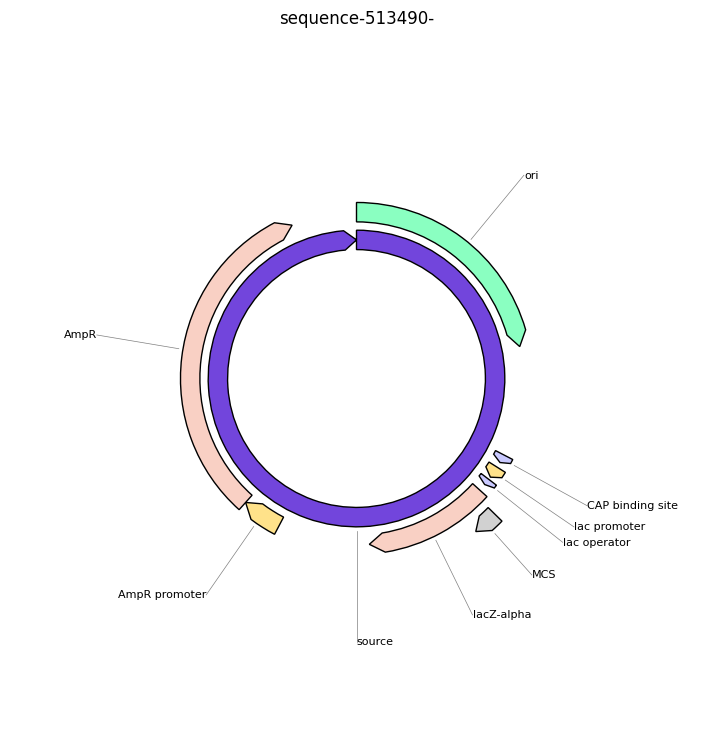
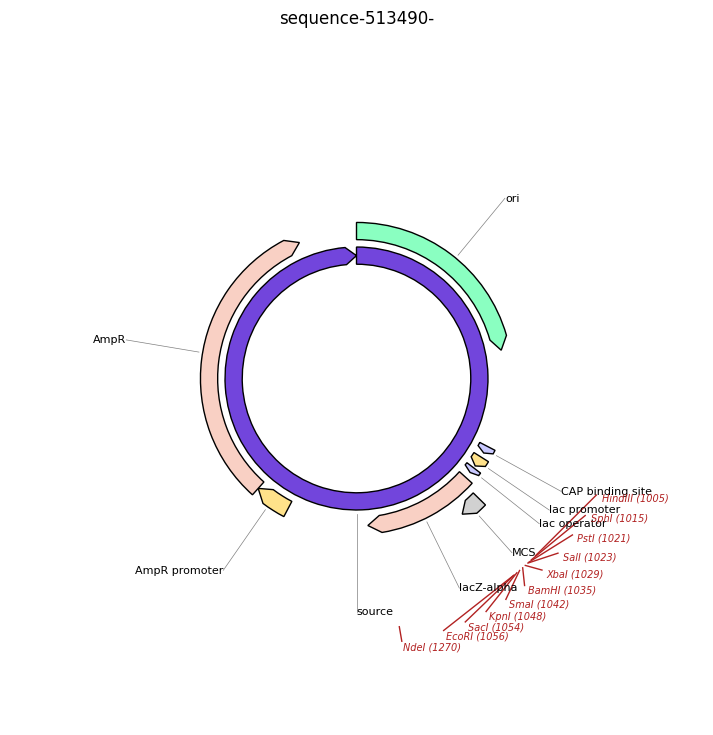
Add restriction site detection (Stage 2)
New restriction_sites.find_unique_cutters() uses Bio.Restriction to find
enzymes from a curated common-cloning-enzyme list that cut the plasmid
exactly once - the ones actually useful for linearizing it or cutting
out an insert. parse_plasmid.py lists them; plot_plasmid.py draws them
as tick marks in their own outer ring, with a declutter step that groups
and evenly spreads tightly clustered labels (e.g. inside an MCS) so they
stay legible instead of overlapping.

diff --git a/plot_plasmid.py b/plot_plasmid.py
@@ -16,9 +16,14 @@ from dna_features_viewer import BiopythonTranslator, CircularGraphicRecord
 from dna_features_viewer.compute_features_levels import compute_features_levels
 
 from plasmid_io import load_record
+from restriction_sites import find_unique_cutters
 
 DEFAULT_FILE = "addgene-plasmid-50005-sequence-513490.gbk"
 DEFAULT_OUTPUT_IMAGE = "plasmid_map.png"
+
+RESTRICTION_SITE_COLOR = "firebrick"
+RESTRICTION_RING_GAP = 0.15  # radius gap between the feature labels and the restriction ring
+RESTRICTION_TICK_LENGTH = 0.12
 
 # Primer binding sites are numerous and mostly useful for cloning/sequencing
 # work, not for getting an overview of the plasmid, so we hide them here.
@@ -87,6 +92,83 @@ def draw_clock_style_labels(ax, graphic_record, levels):
     return label_radius
 
 
+MIN_LABEL_ANGLE_GAP = 5  # degrees; keeps tightly clustered cut sites (e.g. an MCS) legible
+
+
+def declutter_label_angles(angles_deg, min_gap_deg):
+    """Group tightly clustered angles and spread each group evenly around
+    its own true center, so a busy region (like an MCS) fans out without
+    dragging unrelated, well-separated labels along with it.
+
+    `angles_deg` must be sorted highest to lowest, as they are when cut
+    sites are sorted by ascending sequence position. Only the label
+    position moves; the tick mark stays at the feature's true angle,
+    connected by a slightly bent leader line.
+    """
+    n = len(angles_deg)
+    if n == 0:
+        return []
+
+    clusters = [[0]]
+    for i in range(1, n):
+        if angles_deg[i - 1] - angles_deg[i] < min_gap_deg:
+            clusters[-1].append(i)
+        else:
+            clusters.append([i])
+
+    adjusted = [None] * n
+    for cluster in clusters:
+        center = sum(angles_deg[i] for i in cluster) / len(cluster)
+        k = len(cluster)
+        for j, idx in enumerate(cluster):
+            adjusted[idx] = center + min_gap_deg * ((k - 1) / 2 - j)
+    return adjusted
+
+
+def draw_restriction_sites(ax, graphic_record, cut_sites, inner_radius):
+    """Draw a short tick mark and label for each unique restriction cut
+    site, in its own ring beyond `inner_radius` so cut sites read as
+    visually distinct from genetic features."""
+    tick_outer_r = inner_radius + RESTRICTION_TICK_LENGTH
+    label_r = tick_outer_r + 0.05
+
+    # cut_sites is sorted by ascending position, which corresponds to
+    # descending angle - exactly the order declutter_label_angles expects.
+    tick_angles = [graphic_record.position_to_angle(position) for _, position in cut_sites]
+    label_angles = declutter_label_angles(tick_angles, MIN_LABEL_ANGLE_GAP)
+
+    for (enzyme_name, position), tick_angle_deg, label_angle_deg in zip(
+        cut_sites, tick_angles, label_angles
+    ):
+        tick_rad = math.radians(tick_angle_deg)
+        x0 = inner_radius * math.cos(tick_rad)
+        y0 = inner_radius * math.sin(tick_rad) - graphic_record.radius
+
+        label_rad = math.radians(label_angle_deg)
+        x1 = tick_outer_r * math.cos(label_rad)
+        y1 = tick_outer_r * math.sin(label_rad) - graphic_record.radius
+        ax.plot(
+            [x0, x1], [y0, y1],
+            color=RESTRICTION_SITE_COLOR, linewidth=1, zorder=1, clip_on=False,
+        )
+
+        tx = label_r * math.cos(label_rad)
+        ty = label_r * math.sin(label_rad) - graphic_record.radius
+        ha = "left" if tx >= 0 else "right"
+        ax.text(
+            tx, ty,
+            f"{enzyme_name} ({position})",
+            ha=ha,
+            va="center",
+            fontsize=7,
+            style="italic",
+            color=RESTRICTION_SITE_COLOR,
+            clip_on=False,
+        )
+
+    return label_r
+
+
 def parse_args():
     parser = argparse.ArgumentParser(description=__doc__)
     parser.add_argument(
@@ -125,7 +207,12 @@ def main():
 
     label_radius = draw_clock_style_labels(ax, graphic_record, levels)
 
-    half_span = label_radius + 0.6
+    cut_sites = find_unique_cutters(record.seq)
+    restriction_radius = draw_restriction_sites(
+        ax, graphic_record, cut_sites, inner_radius=label_radius + RESTRICTION_RING_GAP
+    )
+
+    half_span = restriction_radius + 0.6
     ax.set_xlim(-half_span, half_span)
     ax.set_ylim(-graphic_record.radius - half_span, -graphic_record.radius + half_span)
 

diff --git a/restriction_sites.py b/restriction_sites.py
@@ -1,0 +1,39 @@
+"""
+Find restriction enzyme cut sites in a plasmid sequence using Bio.Restriction.
+
+Only "unique cutters" (enzymes that cut the plasmid exactly once) are
+returned by default, since those are the enzymes actually useful for
+linearizing a plasmid or cutting out an insert for cloning - an enzyme
+that cuts several times isn't usable that way.
+"""
+
+from Bio.Restriction import Analysis, RestrictionBatch
+
+# A curated set of enzymes commonly found in multiple cloning sites,
+# rather than Bio.Restriction's full ~600-enzyme catalog, which would
+# bury the useful cutters under a lot of noise.
+COMMON_CLONING_ENZYMES = [
+    "EcoRI", "BamHI", "HindIII", "XhoI", "XbaI", "NotI", "SalI", "SmaI",
+    "KpnI", "SacI", "PstI", "SphI", "NcoI", "NdeI", "SpeI", "ApaI",
+    "NheI", "BglII", "ClaI", "EcoRV", "PvuII", "SacII", "AflII",
+]
+
+
+def find_unique_cutters(sequence, enzyme_names=COMMON_CLONING_ENZYMES):
+    """Return a list of (enzyme_name, cut_position) for enzymes from
+    `enzyme_names` that cut the given sequence exactly once.
+
+    The sequence is treated as circular (as a plasmid is), and
+    `cut_position` is 1-based, matching GenBank's convention.
+    """
+    batch = RestrictionBatch(enzyme_names)
+    analysis = Analysis(batch, sequence, linear=False)
+    results = analysis.full()
+
+    unique_cuts = [
+        (str(enzyme), positions[0])
+        for enzyme, positions in results.items()
+        if len(positions) == 1
+    ]
+    unique_cuts.sort(key=lambda item: item[1])
+    return unique_cuts

diff --git a/parse_plasmid.py b/parse_plasmid.py
@@ -3,11 +3,13 @@ Load a plasmid file (GenBank, FASTA, or plain-text sequence) and print its
 basic info:
 - plasmid name and length
 - a list of all annotated features (type, name, start/end, strand), if any
+- a list of unique restriction enzyme cut sites
 """
 
 import argparse
 
 from plasmid_io import load_record
+from restriction_sites import find_unique_cutters
 
 DEFAULT_FILE = "addgene-plasmid-50005-sequence-513490.gbk"
 
@@ -40,21 +42,28 @@ def main():
     print(f"Length: {len(record.seq)} bp")
     print()
 
-    if not record.features:
+    if record.features:
+        print("Features:")
+        for feature in record.features:
+            feature_type = feature.type
+            # Most SnapGene/Addgene files store the display name under "label"
+            label = feature.qualifiers.get("label", ["(unnamed)"])[0]
+            start = int(feature.location.start) + 1  # convert to 1-based for display
+            end = int(feature.location.end)
+            strand = strand_symbol(feature.location.strand)
+
+            print(f"  - {feature_type:<15} {label:<25} {start}-{end} ({strand})")
+    else:
         print("No annotated features found in this file.")
-        return
 
-    print("Features:")
-
-    for feature in record.features:
-        feature_type = feature.type
-        # Most SnapGene/Addgene files store the display name under "label"
-        label = feature.qualifiers.get("label", ["(unnamed)"])[0]
-        start = int(feature.location.start) + 1  # convert to 1-based for display
-        end = int(feature.location.end)
-        strand = strand_symbol(feature.location.strand)
-
-        print(f"  - {feature_type:<15} {label:<25} {start}-{end} ({strand})")
+    print()
+    unique_cutters = find_unique_cutters(record.seq)
+    if unique_cutters:
+        print("Unique restriction sites (cut exactly once):")
+        for enzyme_name, position in unique_cutters:
+            print(f"  - {enzyme_name:<10} cuts at position {position}")
+    else:
+        print("No unique restriction sites found among the common cloning enzymes checked.")
 
 
 if __name__ == "__main__":